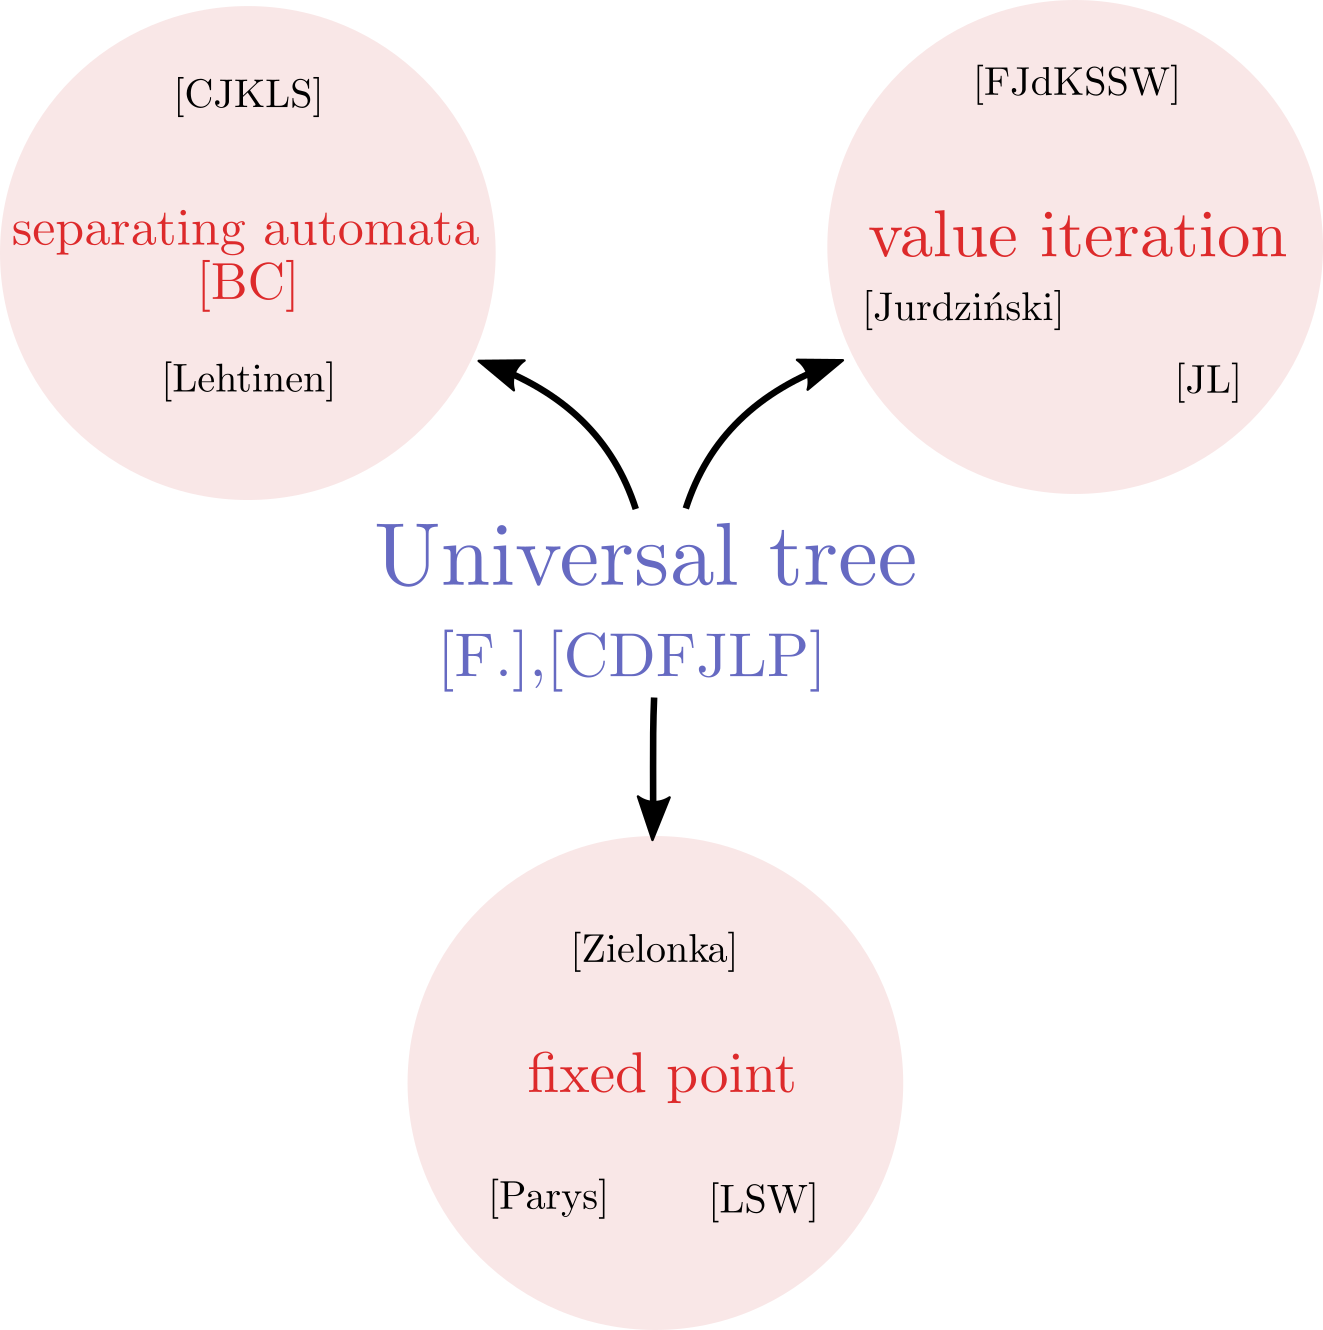
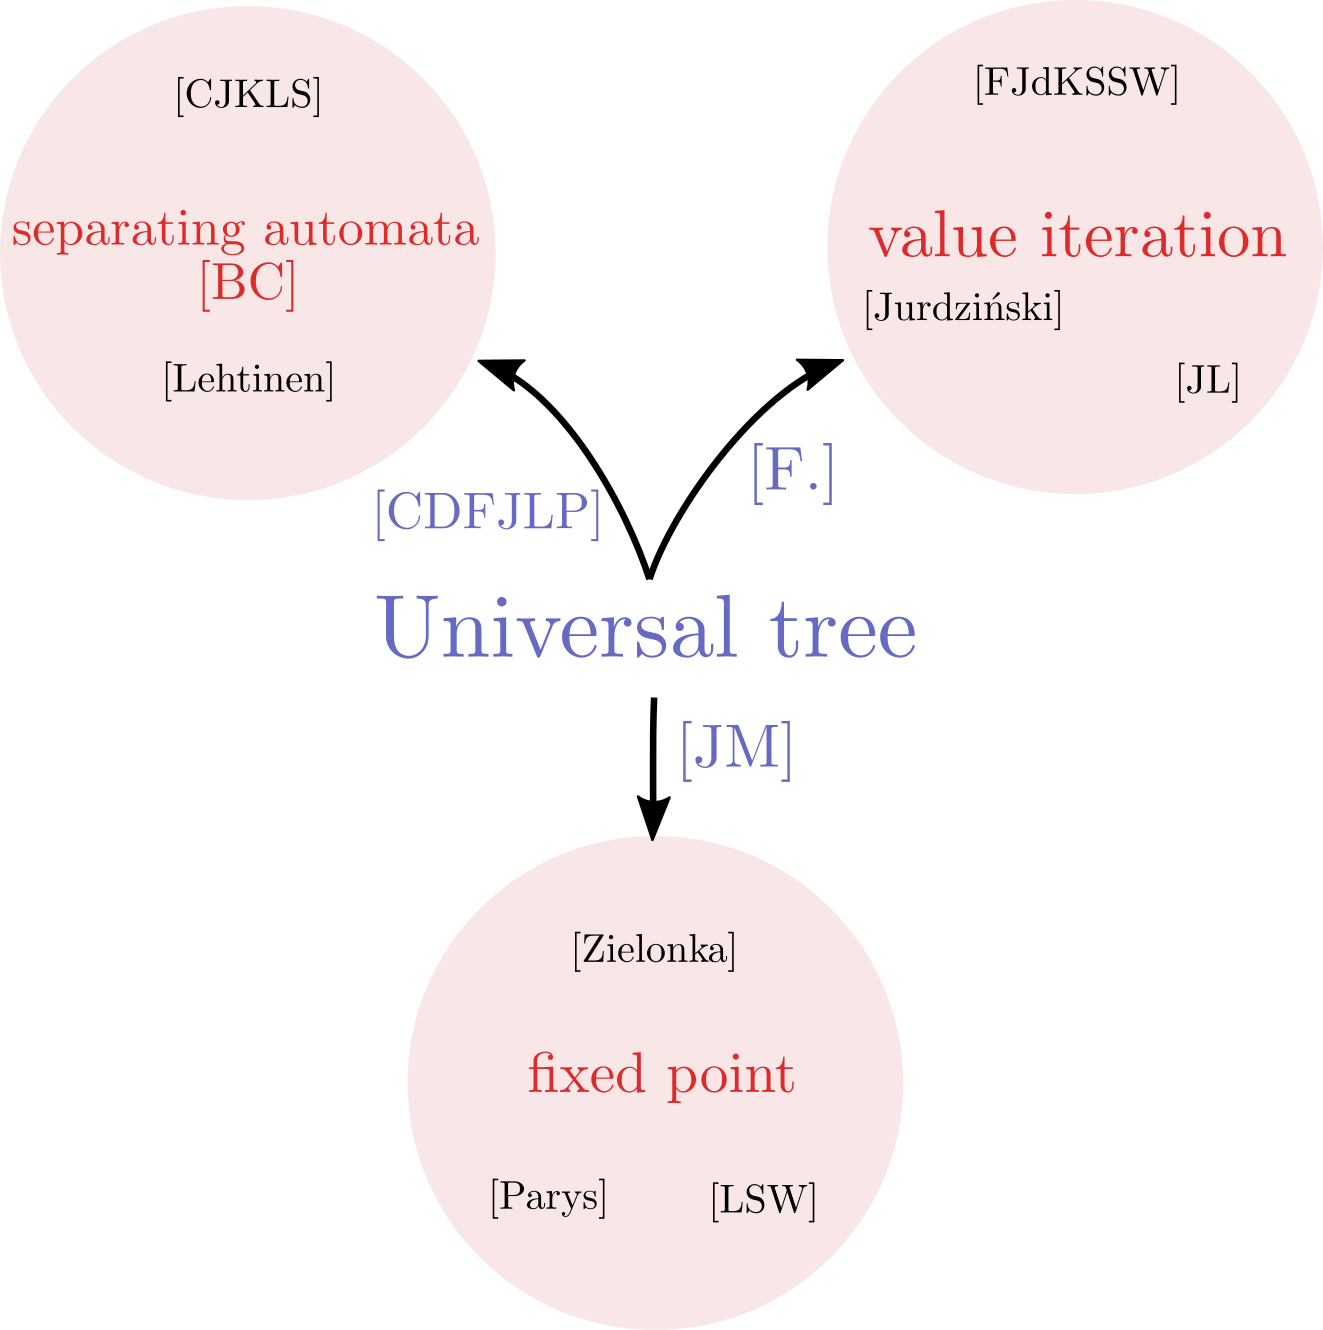
update parity games

Changed region(s): [[0.2789, 0.2774, 0.7128, 0.5857], [0.5268, 0.2774, 0.6198, 0.3699]]

diff --git a/_posts/2019-09-01-parity_games_quasipolynomial_era.md b/_posts/2019-09-01-parity_games_quasipolynomial_era.md
@@ -42,6 +42,7 @@ Everything there is to know about universal trees can be found in [this post]({{
 
 The first family of algorithms, the closest to universal trees, is value iteration algorithms.
 It is presented in [this post]({{ '/blog/value_iteration' | prepend: site.baseurl }}), and relies on the fundamental theorem for parity games presented in [this post]({{ '/blog/fundamental_theorem_parity_games' | prepend: site.baseurl }}).
+The paper [[F.]](https://arxiv.org/abs/1801.09618) presents the generic value iteration algorithm using universal trees.
 
 The second family of algorithms is described using separating automata.
 It is presented in [this post]({{ '/blog/parity_separation' | prepend: site.baseurl }}).
@@ -51,8 +52,7 @@ Second, the definition of separating automata requires deterministic automata, w
 is **good for small games automata**. There are no blog posts on them (yet?), so we refer to [this paper](https://link.springer.com/chapter/10.1007%2F978-3-030-17127-8_1).
 
 The first equivalence result states that separating automata and universal trees are equivalent. 
-The original proof is this result is in [[CDFJLP]](https://arxiv.org/abs/1807.10546) -- 
-it subsumes and replaces [[F.]](https://arxiv.org/abs/1801.09618), which presents the generic value iteration algorithm using universal trees.
+The original proof is this result is in [[CDFJLP]](https://arxiv.org/abs/1807.10546).
 A conceptually simpler proof introduces and uses the notion of **universal graphs**, discussed in [this post]({{ '/blog/universal_graphs' | prepend: site.baseurl }}).
 One of the advantage of this new proof is that it applies to any positionally determined objective, as explained in [this post]({{ '/blog/separation_universal_graphs' | prepend: site.baseurl }}).
 
@@ -60,7 +60,20 @@ Since the notion of universal graphs applies to much more objectives (said diffe
 We discuss algorithms using universal graphs for mean payoff in [this post]({{ '/blog/mean_payoff' | prepend: site.baseurl }}).
 
 Unfortunately there are no blog posts yet on the third family of algorithms.
-The implied equivalence result stating that the mentioned fixed point algorithms feature a universal tree is ongoing work, 
-with contributions of Marcin Jurdzi&#324;ski and Rémi Morvan (through personal communication).
+
+### Other references in the picture
+
+* [[CJKLS]](https://dl.acm.org/citation.cfm?doid=3055399.3055409)
+* [[BC]](https://www.mimuw.edu.pl/~bojan/upload/reduced-may-25.pdf)
+* [[Lehtinen]](https://dl.acm.org/citation.cfm?doid=3209108.3209115)
+* [[CDFJLP]](https://arxiv.org/abs/1807.10546)
+* [[FJdKSSW]](https://arxiv.org/abs/1703.01296)
+* [[Jurdzi&#324;ski]](https://link.springer.com/chapter/10.1007%2F3-540-46541-3_24)
+* [[JL]](https://arxiv.org/abs/1702.05051)
+* [[F]](https://arxiv.org/abs/1801.09618)
+* [JM] Marcin Jurdzi&#324;ski and Rémi Morvan, ongoing (personal communication)
+* [[Zielonka]](https://www.sciencedirect.com/science/article/pii/S0304397598000097?via%3Dihub)
+* [[Parys]](https://arxiv.org/abs/1904.12446)
+* [[LSW]](https://arxiv.org/abs/1904.11810)
 
 
